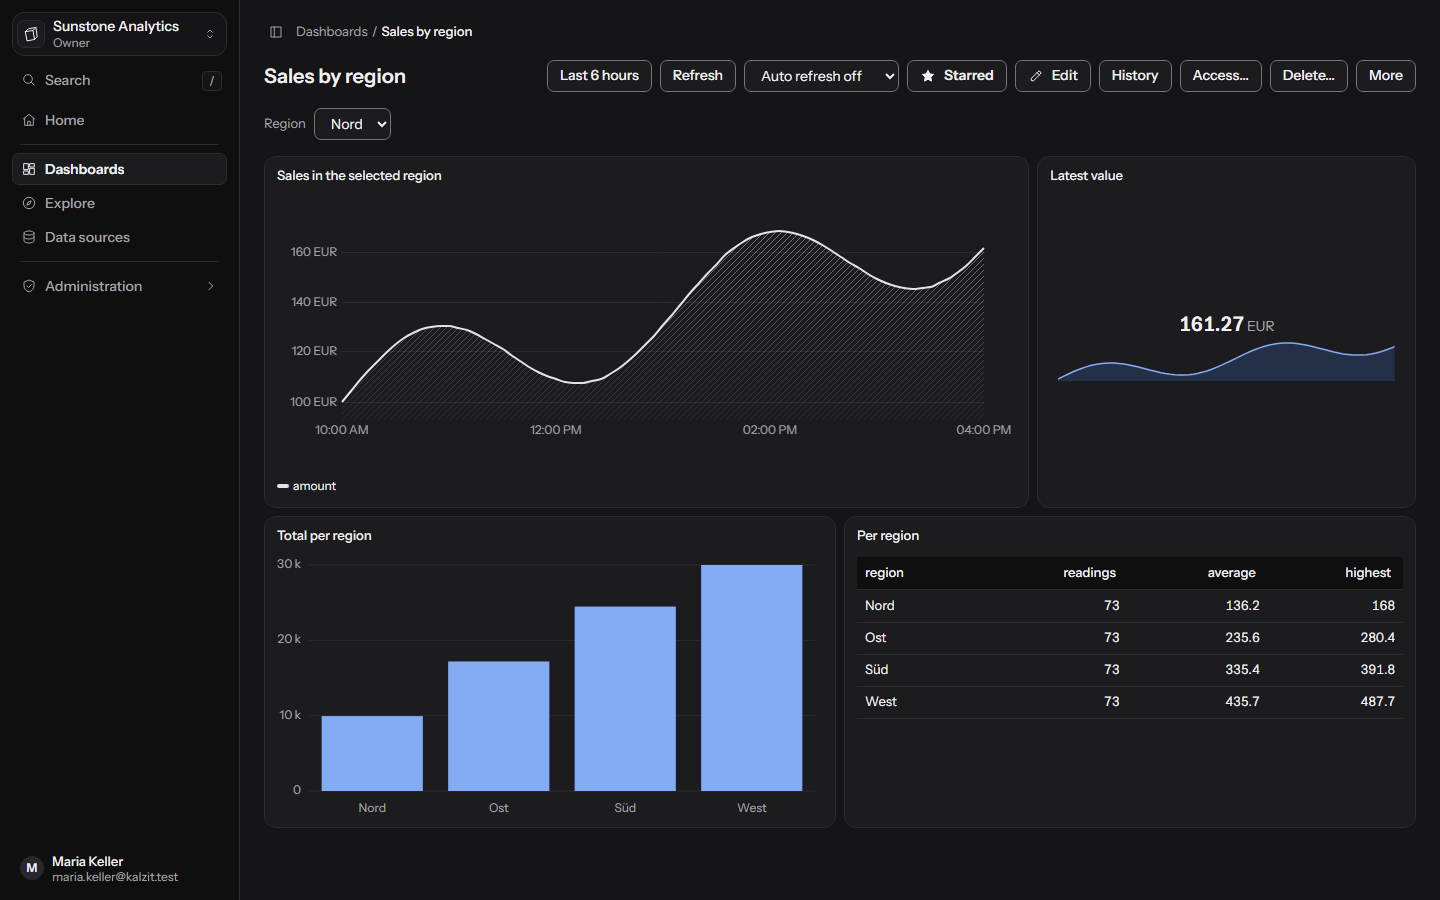
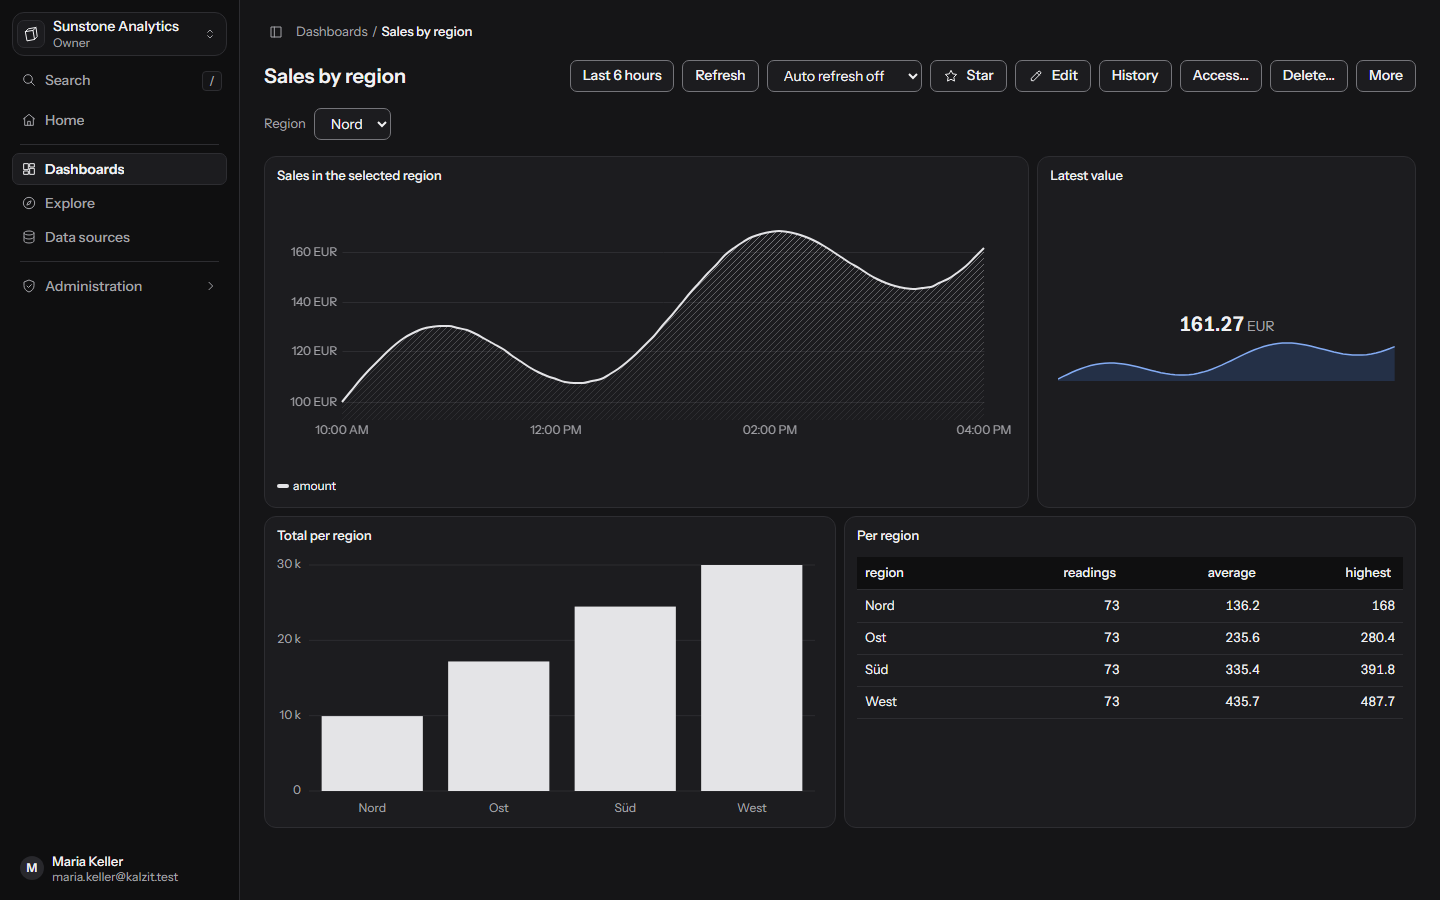
Draw a bar chart of one series in the monochrome look

Changed region(s): [[0.2188, 0.6222, 0.5625, 0.9022], [0.375, 0.0622, 0.6875, 0.0933]]

diff --git a/ui/src/panels/bar/index.tsx b/ui/src/panels/bar/index.tsx
@@ -10,6 +10,7 @@ import {
   type FieldConfig,
   type FieldOptions,
   fieldOptionsFor,
+  type Tone,
   toneClass,
 } from "../fieldConfig/fieldConfig";
 import { Legend, WithLegend } from "../fieldConfig/Legend";
@@ -188,6 +189,10 @@ function BarPanel({
   const longest = Math.max(...data.categories.map((category) => labelWidth(category, labelFont)));
   const labelEvery = Math.max(Math.ceil((longest + LABEL_GAP) / group), 1);
   const truncated = frames.some((f) => rowCount(f) > MAX_BARS);
+  // One series without a color of its own is drawn in the monochrome look (feel.md section 8);
+  // several keep the palette.
+  const colorOf = (tone: Tone | undefined, index: number) =>
+    tone === undefined && data.series.length === 1 ? "series-mono" : toneClass(tone, index);
   const shown = (s: BarSeries, value: number) =>
     displayValue(value, "number", s.options, language, {
       min: yMin,
@@ -202,7 +207,7 @@ function BarPanel({
       return {
         name: s.name,
         value: display === null ? t("dashboards.panels.noValue") : displayText(display),
-        colorClass: toneClass(display?.tone ?? s.options.color, index),
+        colorClass: colorOf(display?.tone ?? s.options.color, index),
       };
     }),
   }));
@@ -278,7 +283,7 @@ function BarPanel({
                           // biome-ignore lint/suspicious/noArrayIndexKey: series order is fixed
                           <g key={index}>
                             <rect
-                              className={`bar__rect ${toneClass(tone, index)}`}
+                              className={`bar__rect ${colorOf(tone, index)}`}
                               x={x}
                               y={barTop}
                               width={slots.width}

diff --git a/docs/releases/v0.1.0.md b/docs/releases/v0.1.0.md
@@ -152,7 +152,8 @@
   leave a changed query.
 - Bar charts show several series side by side per category with a small gap between the bars,
   write large axis values short (25 k, 200 k), can hide the category names and write values above
-  bars wherever they fit; the legend can stand on the right as a list or a table.
+  bars wherever they fit; the legend can stand on the right as a list or a table. A bar chart of
+  one series takes the quiet monochrome look of the time series.
 - Bar gauges draw one bar per row for a result with names and values, with each value right after
   its bar's end; the bars share the panel's height, the value grows with them and can take the
   bar's color or be hidden, and names go before or above the bars or can be hidden.
